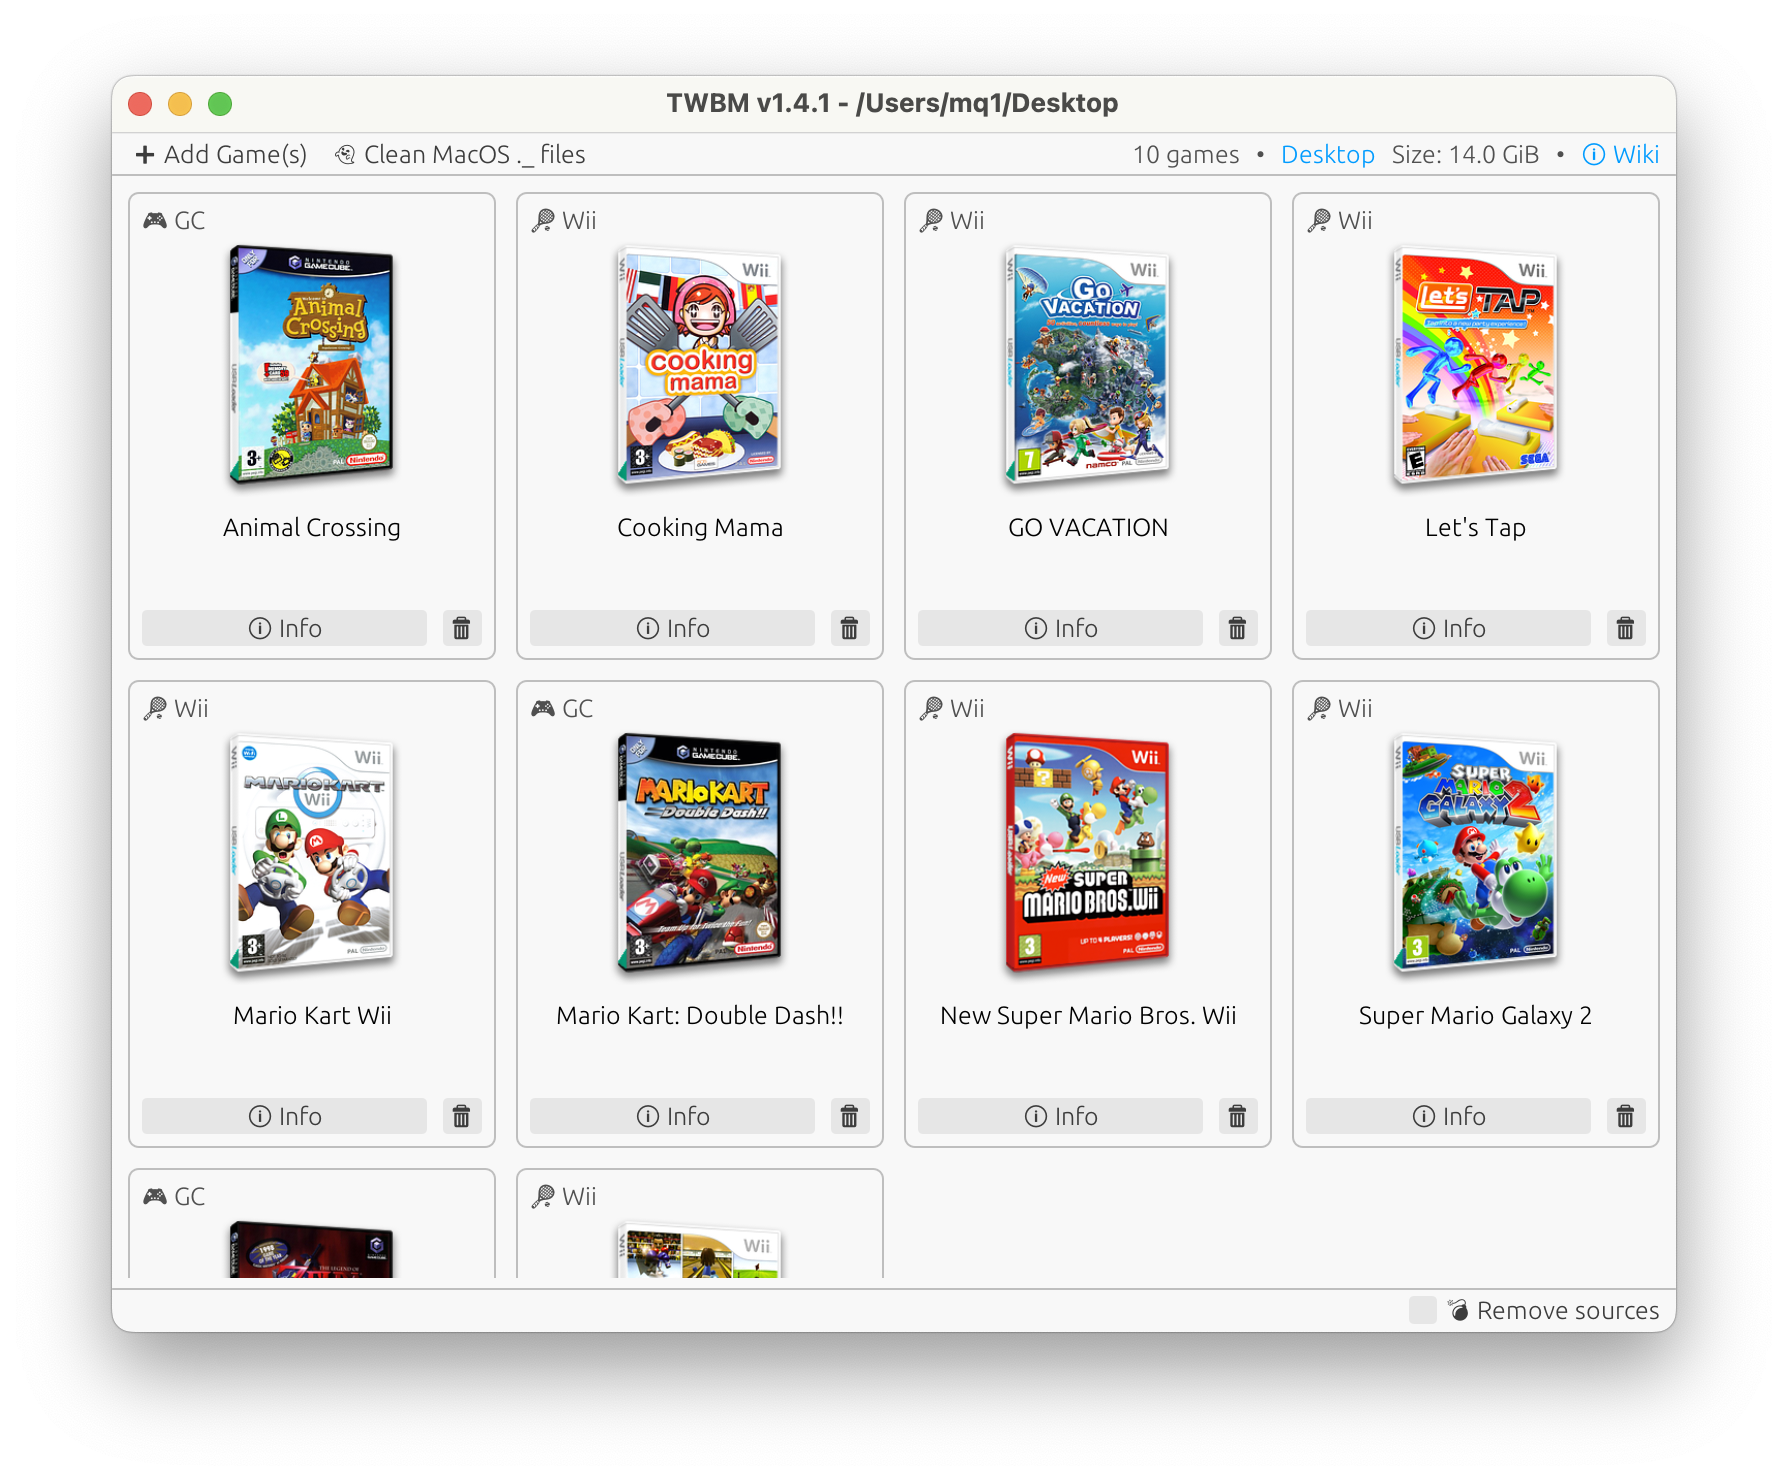
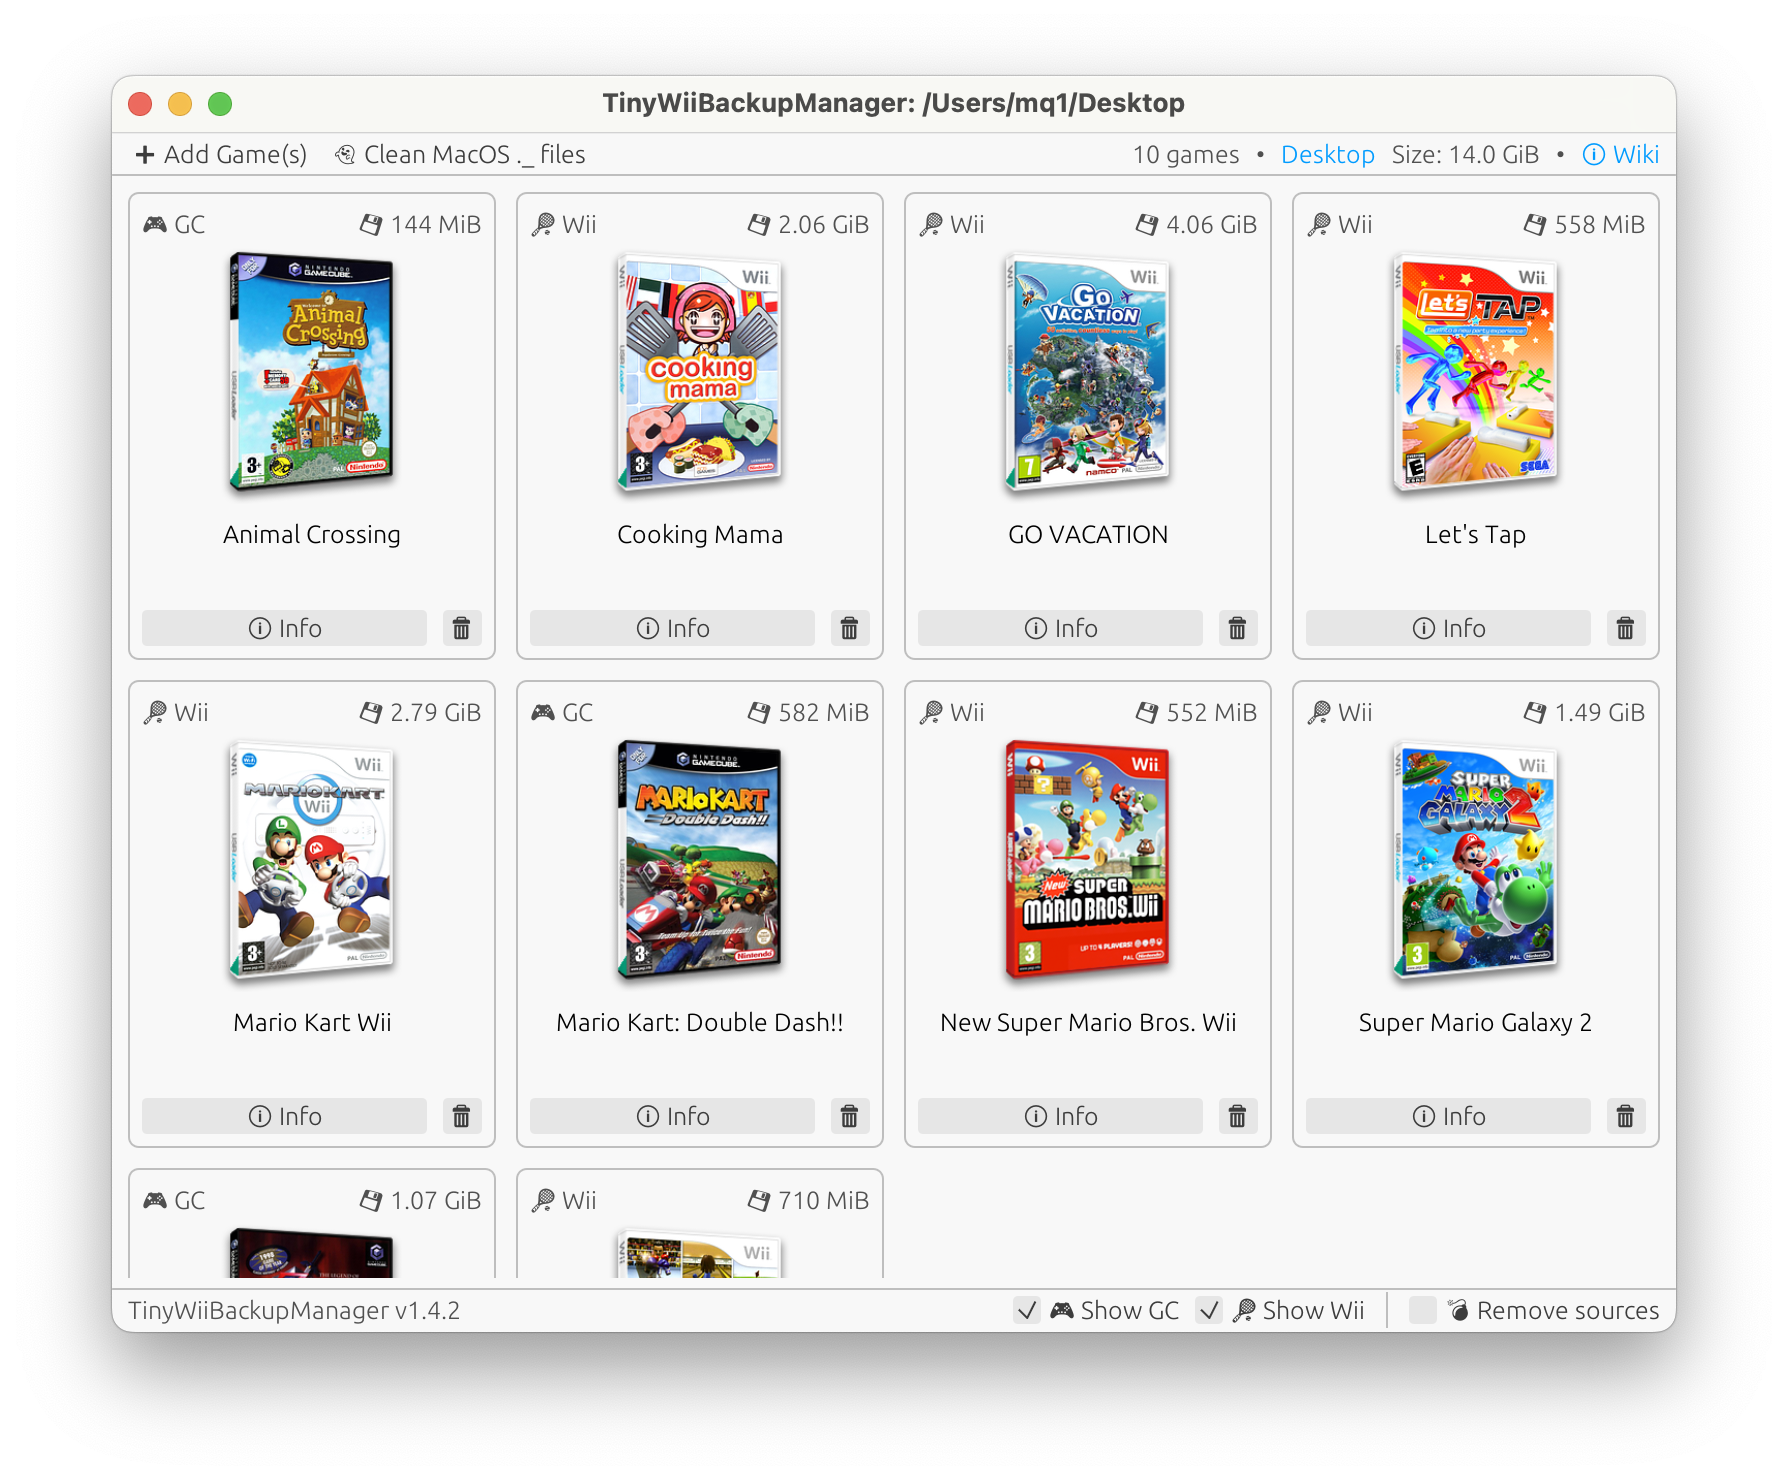
💄 UI improvements

diff --git a/src/components/update_notifier.rs b/src/components/update_notifier.rs
@@ -1,6 +1,7 @@
 // SPDX-FileCopyrightText: 2025 Manuel Quarneti <mq1@ik.me>
 // SPDX-License-Identifier: GPL-2.0-only
 
+use crate::PRODUCT_NAME;
 use crate::app::App;
 use anyhow::{Context, Result, anyhow, bail};
 use const_format::formatcp;
@@ -28,10 +29,15 @@ pub fn ui_update_notifier(ui: &mut egui::Ui, app: &mut App) {
     // Render the suspense UI. It will only draw its contents when the async task succeeds.
     if let Some(suspense) = &mut app.update_checker {
         suspense.ui(ui, |ui, data, _state| {
+            // The ui closure is only called when the suspense is in a success state
+            // For error/loading states, egui_suspense automatically handles them
             if let Some(update_info) = data {
                 let update_text = format!("⚠ Update available: {}", update_info.version);
                 ui.hyperlink_to(update_text, &update_info.url)
                     .on_hover_text("Click to open the latest release page");
+            } else {
+                // No update available - show current version
+                ui.label(format!("{PRODUCT_NAME} v{VERSION}"));
             }
         });
     }

diff --git a/src/main.rs b/src/main.rs
@@ -6,6 +6,7 @@
 use anyhow::{Context, Result, anyhow};
 use eframe::egui;
 use tiny_wii_backup_manager::App;
+use tiny_wii_backup_manager::PRODUCT_NAME;
 use tiny_wii_backup_manager::error_handling::show_anyhow_error;
 
 const LOGO: &[u8] = include_bytes!("../assets/linux/256x256/tiny-wii-backup-manager.png");
@@ -38,11 +39,7 @@ fn run() -> Result<()> {
             .to_path_buf();
     }
 
-    let title = format!(
-        "TWBM v{} - {}",
-        env!("CARGO_PKG_VERSION"),
-        base_dir.display()
-    );
+    let title = format!("{PRODUCT_NAME}: {}", base_dir.display());
 
     let icon = eframe::icon_data::from_png_bytes(LOGO).context("Failed to load icon")?;
 

diff --git a/src/lib.rs b/src/lib.rs
@@ -1,6 +1,8 @@
 // SPDX-FileCopyrightText: 2025 Manuel Quarneti <mq1@ik.me>
 // SPDX-License-Identifier: GPL-2.0-only
 
+pub const PRODUCT_NAME: &str = "TinyWiiBackupManager";
+
 mod app;
 mod components;
 pub mod error_handling;
